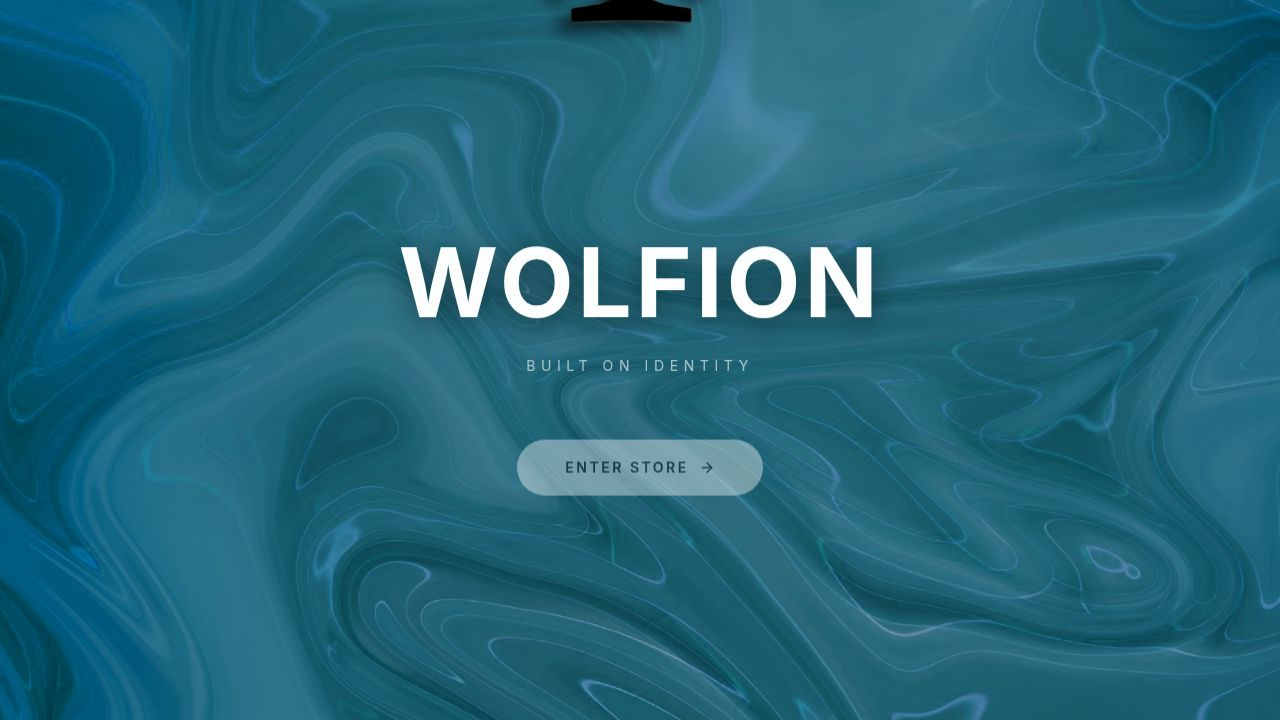
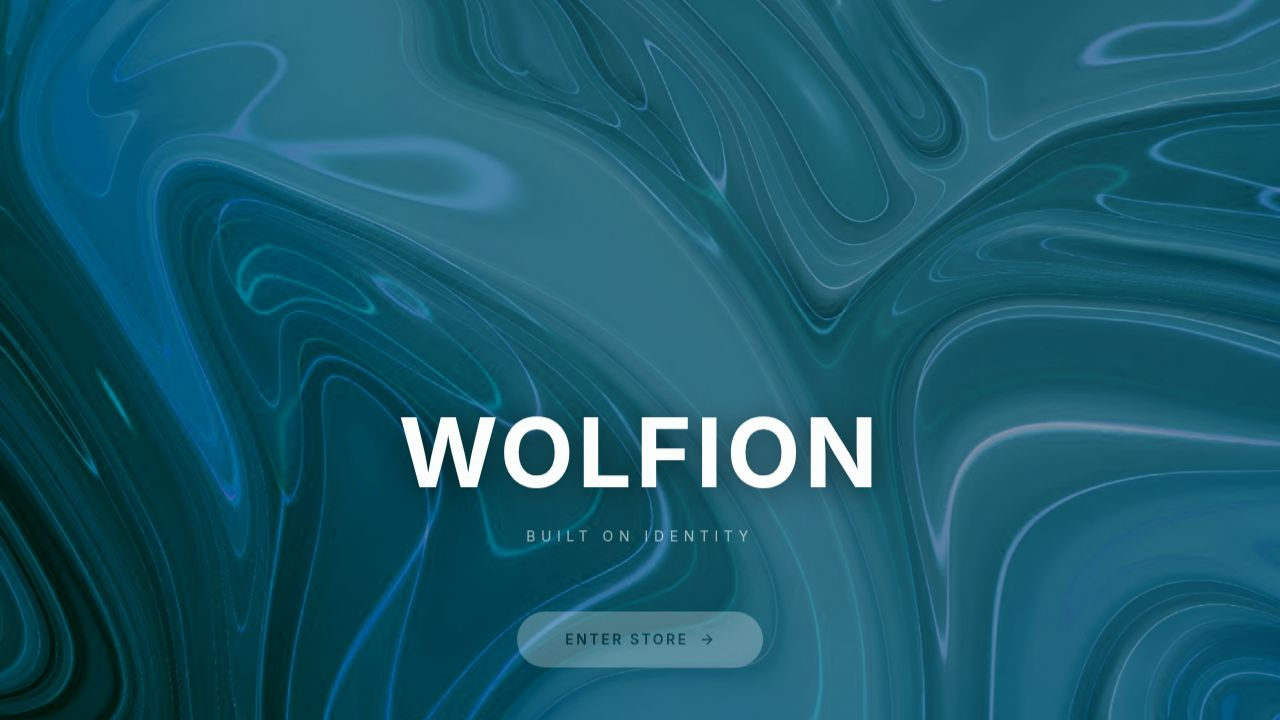
Adjust layout to ensure sign-up form fits within the viewport
Modify CSS to correctly size and position the sign-up form, resolving overflow issues by adjusting max-width calculations and removing unnecessary 3D transforms on mobile devices.

Replit-Commit-Author: Agent
Replit-Commit-Session-Id: 55cdde0c-b321-45dc-b9e9-469642c87f82
Replit-Commit-Checkpoint-Type: full_checkpoint
Replit-Commit-Event-Id: b2405a9f-a13e-4091-be9d-dacf73121d24
Replit-Commit-Screenshot-Url: https://storage.googleapis.com/screenshot-production-us-central1/42aad048-2e55-4458-a3e9-a4a7e59c3104/55cdde0c-b321-45dc-b9e9-469642c87f82/xLBmnm6
Replit-Helium-Checkpoint-Created: true

diff --git a/artifacts/wolfion/src/components/auth-shell.tsx b/artifacts/wolfion/src/components/auth-shell.tsx
@@ -84,10 +84,9 @@ export function AuthShell({ eyebrow, title, subtitle, children }: Props) {
       </div>
 
       <main
-        className="relative min-h-[100dvh] grid place-items-center px-4 py-8"
-        style={{ perspective: "1400px" }}
+        className="relative min-h-[100dvh] grid place-items-center px-4 sm:px-5 py-6 sm:py-8 overflow-x-hidden md:[perspective:1400px]"
       >
-        <div className="relative w-full max-w-[400px] mx-auto">
+        <div className="relative w-full max-w-[min(380px,calc(100vw-2rem))] sm:max-w-[400px] mx-auto">
           {/* Glow halo */}
           <div
             aria-hidden
@@ -120,7 +119,7 @@ export function AuthShell({ eyebrow, title, subtitle, children }: Props) {
             >
               {/* Glass card */}
               <div
-                className="rounded-[27px] p-6 sm:p-8 border border-white/10 shadow-[0_30px_80px_-20px_rgba(0,0,0,0.7)]"
+                className="rounded-[27px] p-5 sm:p-8 border border-white/10 shadow-[0_30px_80px_-20px_rgba(0,0,0,0.7)] overflow-hidden"
                 style={{
                   background:
                     "linear-gradient(180deg, rgba(10,18,28,0.85) 0%, rgba(4,17,26,0.92) 100%)",
@@ -131,7 +130,6 @@ export function AuthShell({ eyebrow, title, subtitle, children }: Props) {
                 {/* Brand mark with glow */}
                 <div
                   className="flex flex-col items-center text-center"
-                  style={{ transform: "translateZ(40px)" }}
                 >
                   <div className="relative h-[72px] w-[72px]">
                     <div
@@ -184,7 +182,7 @@ export function AuthShell({ eyebrow, title, subtitle, children }: Props) {
                 </div>
 
                 {/* Auth form slot */}
-                <div className="mt-5" style={{ transform: "translateZ(20px)" }}>
+                <div className="mt-5 w-full min-w-0">
                   {children}
                 </div>
               </div>
@@ -243,9 +241,9 @@ export const clerkAppearance = {
     fontFamily: "inherit",
   },
   elements: {
-    rootBox: "w-full",
-    cardBox: "!shadow-none !border-0 !bg-transparent",
-    card: "!bg-transparent !text-white !shadow-none !border-0 !p-0",
+    rootBox: "!w-full !min-w-0 !max-w-full",
+    cardBox: "!shadow-none !border-0 !bg-transparent !w-full !min-w-0 !max-w-full",
+    card: "!bg-transparent !text-white !shadow-none !border-0 !p-0 !w-full !min-w-0 !max-w-full",
     logoBox: "!hidden",
     logoImage: "!hidden",
     header: "!hidden",